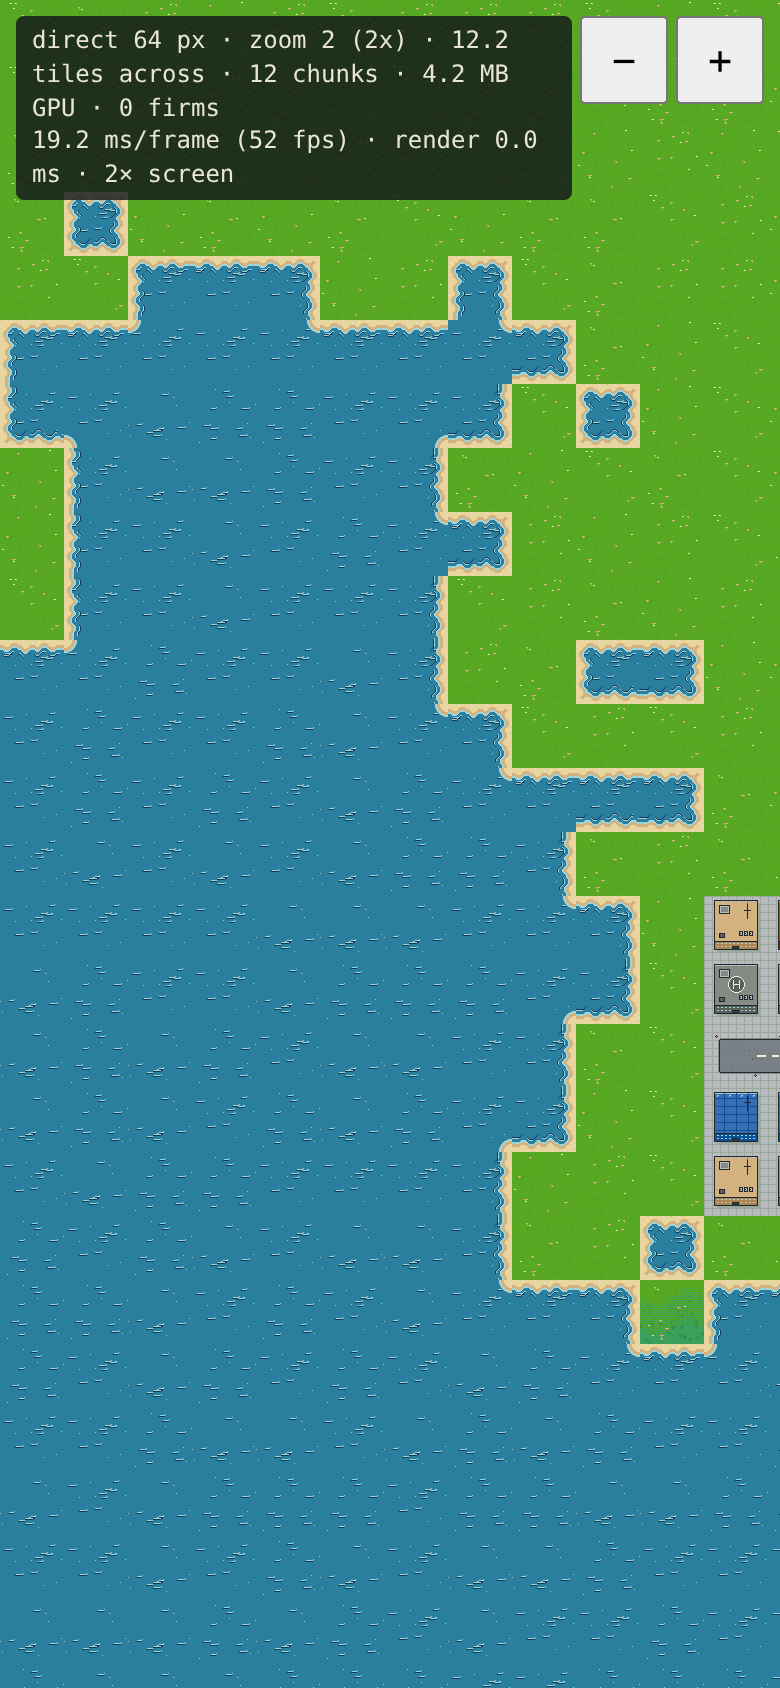
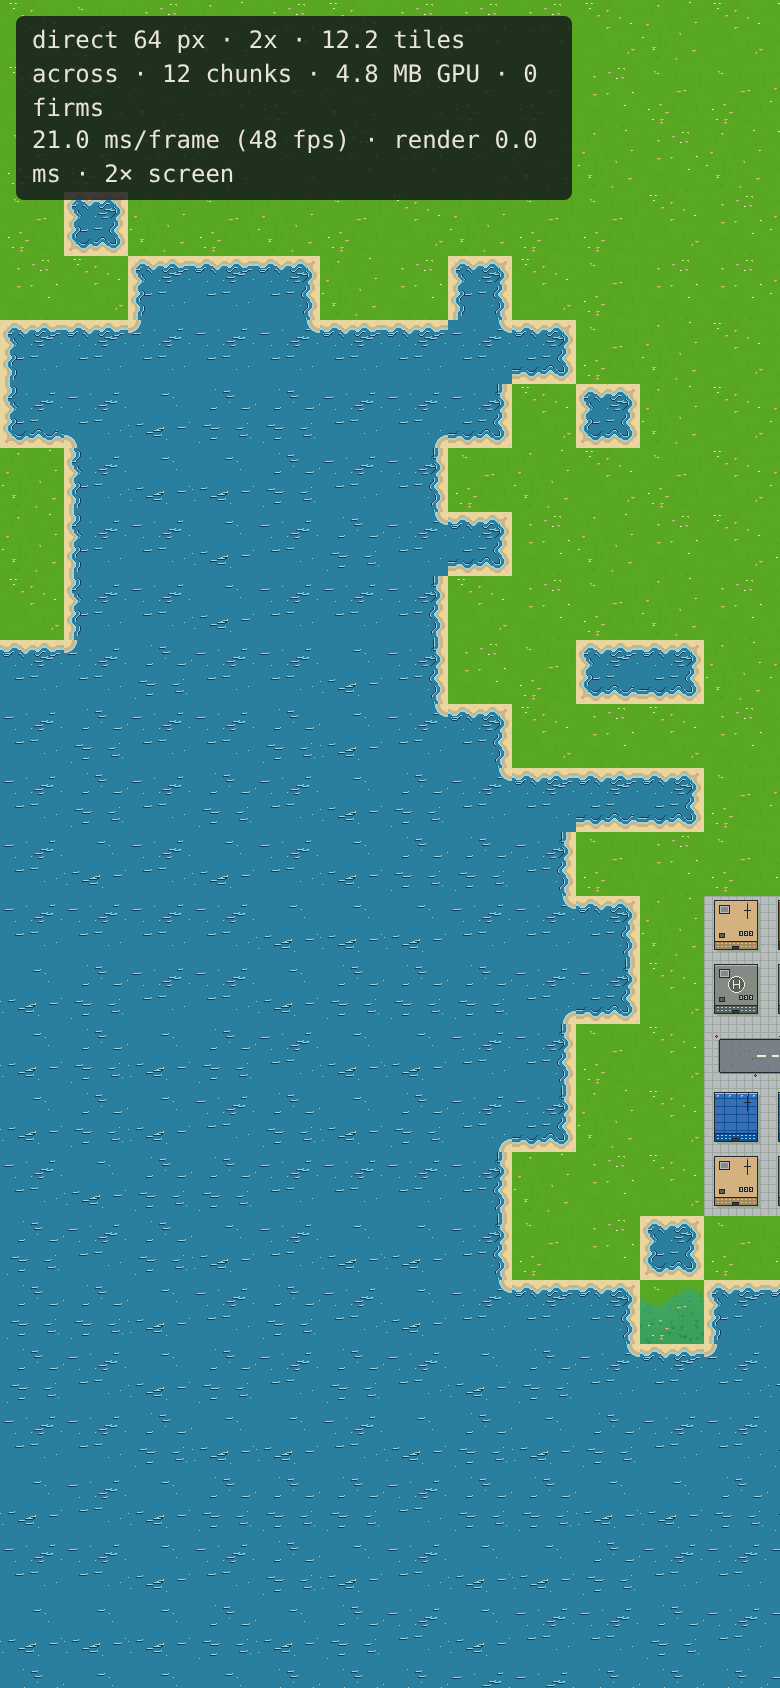
feat(client): single 32 pt map view; 64 px firms and flags from the full sheet
Drops the 16 pt and 48 pt steps per the spec (#61). Zoom stays counted in points.
64 px firm and flag frames draw at half scale in map units, so the 16x24 flag's
(+48, -8) offset lands where the 32 px flag's (+24, -4) did.

Changed region(s): [[0.1538, 0.0, 0.6462, 0.0924], [0.7385, 0.0, 0.9846, 0.0616], [0.0308, 0.0308, 0.1231, 0.0924]]

diff --git a/client/src/main.ts b/client/src/main.ts
@@ -5,7 +5,7 @@ import atlas64Url from "../../art/atlas/terrain_atlas_64.png?url";
 import atlas64Json from "../../art/atlas/terrain_atlas_64.json";
 import { ChunkCache, TerrainOptions } from "./chunks";
 import { FirmLayer } from "./firms";
-import { CHUNK_TILES, STANDARD_STEP, TILE_PX, View, ZOOM_STEPS, clampView, makeView, sheetFor, stepZoom } from "./chunkmath";
+import { CHUNK_TILES, STANDARD_STEP, TILE_PX, View, clampView, makeView, sheetFor } from "./chunkmath";
 import { parseMap } from "./mapdata";
 
 interface AtlasJson {
@@ -65,13 +65,12 @@ async function boot() {
   app.stage.addChild(world);
 
   const screen = () => ({ w: app.screen.width * resolution, h: app.screen.height * resolution });
-  const stepParam = Math.round(Number(params.get("zoom") ?? STANDARD_STEP));
   let view: View = makeView(
     Number(params.get("x") ?? 100) * TILE_PX,
     Number(params.get("y") ?? 99) * TILE_PX,
     0,
     0,
-    ZOOM_STEPS.includes(stepParam as (typeof ZOOM_STEPS)[number]) ? stepParam : STANDARD_STEP,
+    STANDARD_STEP,
     resolution,
   );
   let art: 32 | 64 = 32;
@@ -121,56 +120,28 @@ async function boot() {
       baked: chunks.baked,
       firms: firms.visibleCount,
     };
-    hudInfo.textContent = `${stats.mode} ${art} px · zoom ${stats.zoom} (${view.zoom}x) · ${stats.tilesAcross} tiles across · ${stats.chunks} chunks · ${stats.mb} MB GPU · ${stats.firms} firms`;
+    hudInfo.textContent = `${stats.mode} ${art} px · ${view.zoom}x · ${stats.tilesAcross} tiles across · ${stats.chunks} chunks · ${stats.mb} MB GPU · ${stats.firms} firms`;
     (window as unknown as { __cppStats: typeof stats }).__cppStats = stats;
   };
 
-  // Pan with one pointer; zoom with the wheel, pinch or the buttons, in point-based steps (ZOOM_STEPS).
-  const pointers = new Map<number, { x: number; y: number }>();
-  let pinchStart = 0;
+  // Pan with one pointer or the mouse. There is one map view (32 pt tiles), so no zoom input.
+  let drag: { id: number; x: number; y: number } | null = null;
   app.canvas.addEventListener("pointerdown", (e) => {
+    if (drag) return;
     app.canvas.setPointerCapture(e.pointerId);
-    pointers.set(e.pointerId, { x: e.clientX, y: e.clientY });
-    if (pointers.size === 2) pinchStart = pinchDistance();
+    drag = { id: e.pointerId, x: e.clientX, y: e.clientY };
   });
   app.canvas.addEventListener("pointermove", (e) => {
-    const p = pointers.get(e.pointerId);
-    if (!p) return;
-    if (pointers.size === 1) {
-      view = { ...view, x: view.x - ((e.clientX - p.x) * resolution) / view.zoom, y: view.y - ((e.clientY - p.y) * resolution) / view.zoom };
-      apply();
-    }
-    pointers.set(e.pointerId, { x: e.clientX, y: e.clientY });
-    if (pointers.size === 2 && pinchStart) {
-      const d = pinchDistance();
-      if (d / pinchStart > 1.4 || d / pinchStart < 0.7) {
-        view = stepZoom(view, d > pinchStart ? 1 : -1);
-        pinchStart = d;
-        apply();
-      }
-    }
+    if (!drag || drag.id !== e.pointerId) return;
+    view = { ...view, x: view.x - ((e.clientX - drag.x) * resolution) / view.zoom, y: view.y - ((e.clientY - drag.y) * resolution) / view.zoom };
+    drag = { id: e.pointerId, x: e.clientX, y: e.clientY };
+    apply();
   });
   const up = (e: PointerEvent) => {
-    pointers.delete(e.pointerId);
-    if (pointers.size < 2) pinchStart = 0;
+    if (drag?.id === e.pointerId) drag = null;
   };
   app.canvas.addEventListener("pointerup", up);
   app.canvas.addEventListener("pointercancel", up);
-  function pinchDistance() {
-    const [a, b] = [...pointers.values()];
-    return Math.hypot(a.x - b.x, a.y - b.y);
-  }
-  app.canvas.addEventListener(
-    "wheel",
-    (e) => {
-      e.preventDefault();
-      view = stepZoom(view, e.deltaY < 0 ? 1 : -1, e.clientX * resolution, e.clientY * resolution);
-      apply();
-    },
-    { passive: false },
-  );
-  document.getElementById("zoom-in")!.onclick = () => ((view = stepZoom(view, 1)), apply());
-  document.getElementById("zoom-out")!.onclick = () => ((view = stepZoom(view, -1)), apply());
   window.addEventListener("resize", apply);
   apply();
 

diff --git a/client/tests/chunkmath.test.ts b/client/tests/chunkmath.test.ts
@@ -8,7 +8,9 @@ import {
   makeView,
   neededChunks,
   sheetFor,
+  STANDARD_STEP,
   stepZoom,
+  ZOOM_STEPS,
 } from "../src/chunkmath";
 
 const MAP_W = 240;
@@ -40,8 +42,8 @@ describe("neededChunks", () => {
       }
   });
 
-  it("accepts the fractional scale of a 16 pt step on a 3x phone", () => {
-    const v = phone3x(0, 0, 1);
+  it("accepts a fractional canvas scale", () => {
+    const v = makeView(0, 0, 1170, 2532, 1, 3);
     expect(v.zoom).toBe(1.5);
     expect(neededChunks(v, MAP_W, MAP_H).length).toBeGreaterThan(0);
   });
@@ -49,7 +51,7 @@ describe("neededChunks", () => {
 
 describe("zoom steps in points", () => {
   it("a step draws the same tile size in points on every screen", () => {
-    for (const step of [1, 2, 3])
+    for (const step of [1, 2])
       for (const res of [1, 2, 3]) {
         expect((deviceScale(step, res) * TILE_PX) / res).toBe(16 * step);
       }
@@ -60,7 +62,6 @@ describe("zoom steps in points", () => {
     expect(across(390, 2)).toBeCloseTo(12.19, 2);
     expect(across(390, 3)).toBeCloseTo(12.19, 2);
     expect(across(1920, 1)).toBe(60);
-    expect(across(390, 3, 1)).toBeCloseTo(24.38, 2);
   });
 
   it("picks the 64 px sheet once a tile spans 64 canvas px", () => {
@@ -73,19 +74,16 @@ describe("zoom steps in points", () => {
 });
 
 describe("zoom and camera", () => {
-  it("steps through the steps and stops at the ends", () => {
-    let v = makeView(0, 0, 1000, 1000, 1, 2);
-    v = stepZoom(v, 1);
-    expect([v.step, v.zoom]).toEqual([2, 2]);
-    v = stepZoom(stepZoom(v, 1), 1);
-    expect([v.step, v.zoom]).toEqual([3, 3]);
-    v = stepZoom(stepZoom(stepZoom(v, -1), -1), -1);
-    expect([v.step, v.zoom]).toEqual([1, 1]);
+  it("has only the standard 32 pt view", () => {
+    expect([...ZOOM_STEPS]).toEqual([STANDARD_STEP]);
+    const v = makeView(0, 0, 1000, 1000, STANDARD_STEP, 3);
+    expect(stepZoom(v, 1)).toBe(v);
+    expect(stepZoom(v, -1)).toBe(v);
   });
 
   it("keeps the point under the cursor fixed", () => {
     const v = makeView(1000, 2000, 800, 600, 1, 3);
-    const z = stepZoom(v, 1, 200, 100);
+    const z = { ...v, step: 2, zoom: 3, x: v.x + 200 / 1.5 - 200 / 3, y: v.y + 100 / 1.5 - 100 / 3 };
     expect(z.x + 200 / z.zoom).toBeCloseTo(v.x + 200 / v.zoom);
     expect(z.y + 100 / z.zoom).toBeCloseTo(v.y + 100 / v.zoom);
   });

diff --git a/client/src/chunkmath.ts b/client/src/chunkmath.ts
@@ -5,11 +5,11 @@ export const CHUNK_TILES = 32;
 export const CHUNK_PX = TILE_PX * CHUNK_TILES; // 1024
 export const CHUNK_BYTES = CHUNK_PX * CHUNK_PX * 4; // RGBA8, about 4 MB
 /**
- * Zoom steps, counted in points so a step looks the same on every screen density.
- * Step n draws a tile at 16 x n points: 1 = 16 pt (about 24 tiles across a phone),
- * 2 = 32 pt (the standard view, about 12 across, docs/m2-ux-spec.md), 3 = 48 pt.
+ * Zoom is counted in points so it looks the same on every screen density. Step n draws a
+ * tile at 16 x n points; the map has one view, step 2 = 32 pt tiles, about 12 across a phone
+ * (docs/m2-ux-spec.md, Esteban 2026-11-11). The far overview comes later as its own mode.
  */
-export const ZOOM_STEPS = [1, 2, 3] as const;
+export const ZOOM_STEPS = [2] as const;
 export const STANDARD_STEP = 2;
 export const POINTS_PER_TILE_STEP = 16;
 

diff --git a/client/index.html b/client/index.html
@@ -9,14 +9,11 @@
       #map { position: fixed; inset: 0; }
       #hud { position: fixed; left: 8px; top: 8px; right: 112px; width: max-content; max-width: calc(100% - 128px); padding: 4px 8px; font: 12px/1.4 ui-monospace, monospace;
              color: #e8e4d8; background: rgba(16, 19, 26, 0.8); border-radius: 4px; pointer-events: none; }
-      #zoom { position: fixed; right: 8px; top: 8px; display: flex; gap: 4px; }
-      #zoom button { min-width: 44px; min-height: 44px; font: 20px monospace; }
     </style>
   </head>
   <body>
     <div id="map"></div>
     <div id="hud"></div>
-    <div id="zoom"><button id="zoom-out" aria-label="Zoom out">−</button><button id="zoom-in" aria-label="Zoom in">+</button></div>
     <script type="module" src="./src/main.ts"></script>
   </body>
 </html>

diff --git a/client/README.md b/client/README.md
@@ -14,12 +14,11 @@ npm run --prefix client screenshot   # after build: docs/art/m2-map-desktop.png,
 - **Chunks.** Terrain is baked into 32 x 32-tile chunks (1024 px, about 4 MB each) on first view.
   Only chunks within 8 tiles of the screen are kept; the rest are destroyed. A 1920 x 1080 screen
   holds at most 12 chunks (48 MB), a phone at standard zoom at most 6. The full map would be 56.
-- **Zoom.** Three steps counted in points, so each looks the same on every screen: step 1 draws
-  16 pt tiles (about 24 across a phone), step 2 32 pt tiles (the standard view, about 12 across a
-  phone, 60 across a 1920 px desktop), step 3 48 pt tiles. Canvas pixels per art pixel are
-  `16 x step x resolution / 32`, so a 3x phone at step 2 draws 64 px art at 1.5x (Esteban,
-  2026-11-11). Nearest-neighbour, camera snapped to whole canvas pixels. Wheel, pinch, and the
-  44 px +/- buttons.
+- **Zoom.** Counted in points, so the view looks the same on every screen: one map view with
+  32 pt tiles (about 12 across a phone, 60 across a 1920 px desktop; docs/m2-ux-spec.md). Canvas
+  pixels per art pixel are `32 pt x resolution / 32`, so a 3x phone draws 64 px art at 1.5x
+  nearest-neighbour (Esteban, 2026-11-11). Camera snapped to whole canvas pixels; one-finger or
+  mouse drag pans. The far overview comes later.
 - **Art sheet.** The 64 px sheet is used once a tile spans 64 or more canvas pixels, otherwise
   the 32 px sheet (`sheetFor`); frames missing from the 64 px sheet fall back to 32 px ones.
   Changing sheet rebuilds the visible chunks.
@@ -29,7 +28,7 @@ npm run --prefix client screenshot   # after build: docs/art/m2-map-desktop.png,
   Firms draw as grass until the firm sprites land.
 - **Sample map.** `public/sample-map.bin` comes from `python scripts/export_sample_map.py` (seed 1,
   240 x 198): `CPPM`, u16 width, u16 height, then kind and climate bytes per tile.
-- URL parameters: `x`, `y` (top-left tile), `zoom` (step 1-3, default 2), `margin` (tiles kept around the screen).
+- URL parameters: `x`, `y` (top-left tile), `margin` (tiles kept around the screen).
 
 ## Terrain renderer options
 
@@ -44,5 +43,5 @@ Chrome there renders WebGL on the CPU (SwiftShader), so frame times are only rel
 
 `.github/workflows/pages.yml` deploys `client/` to GitHub Pages on every push to main:
 https://esetebanjimenez.github.io/capitalism-plus-plus/ (same URL options, for example
-`?zoom=1` or `?mode=baked`). The HUD's second line shows the average frame time, the
+`?mode=baked` or `?art=32`). The HUD's second line shows the average frame time, the
 render call's CPU time and the screen's pixel density.
